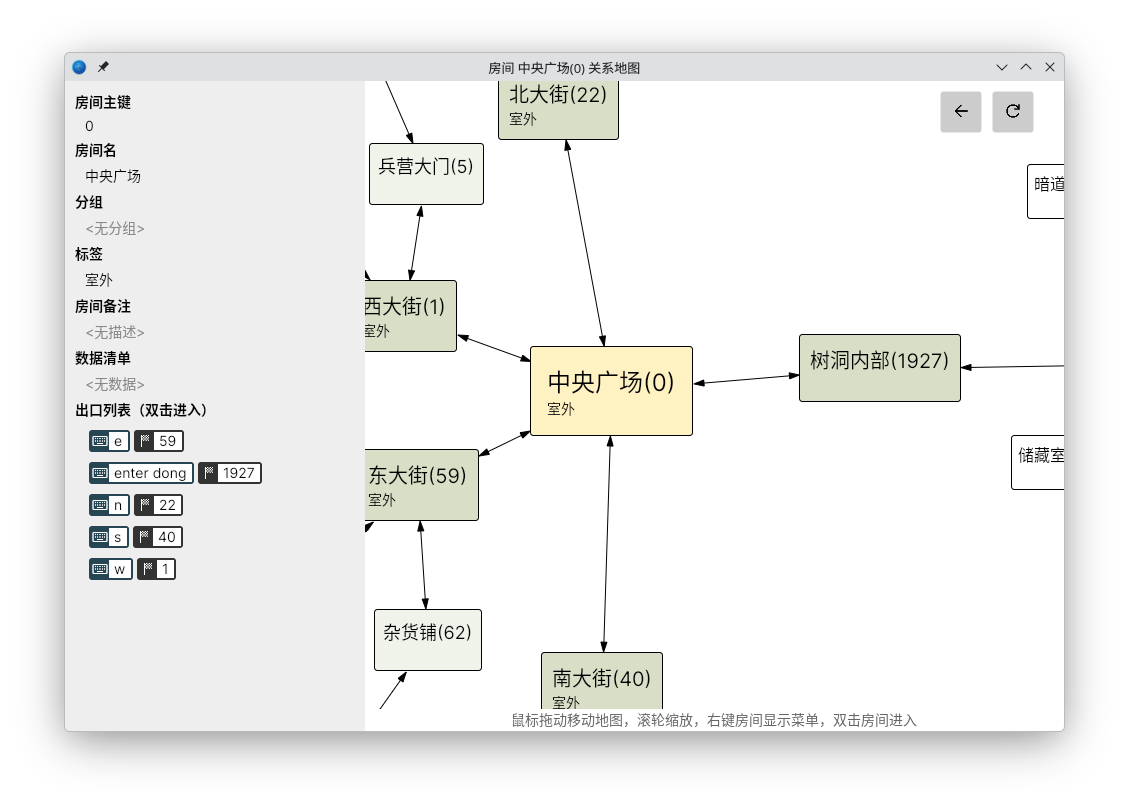
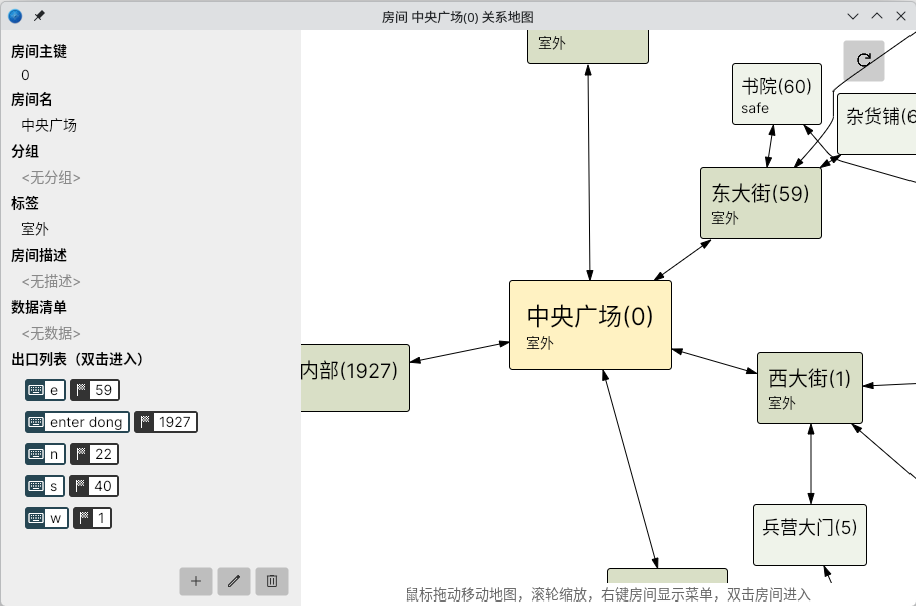
relation map image

Changed region(s): [[0.0, 0.0, 1.0, 1.0], [0.3362, 0.7426, 0.4279, 0.8614], [0.3362, 0.1485, 0.4279, 0.2673]]

diff --git a/README.md b/README.md
@@ -41,6 +41,8 @@ HMM包含有对以下数据结构的支持
 
 提供可视化的，可浏览的关系地图，便于探索地图数据。
 
+可以在关系地图上直接对房间和房间的出口进行维护。
+
 ![关系地图](doc/images/map.png)
 
 ## 便于使用的文件格式
